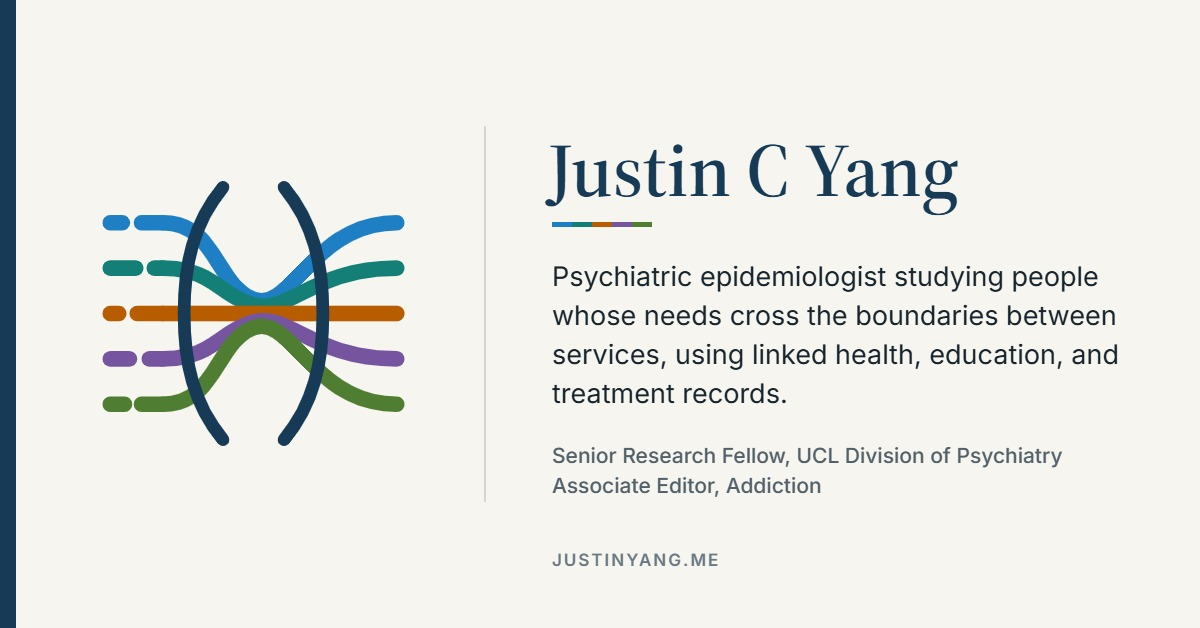
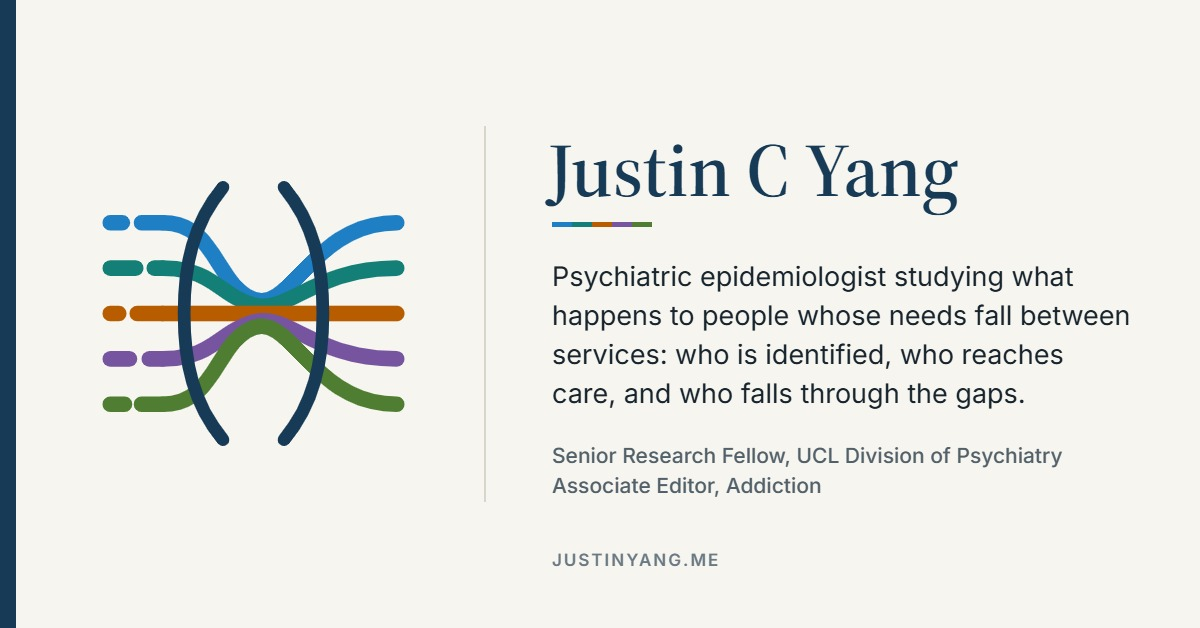
Lead with the research question rather than the data
- Homepage opens with the question (who is identified, who reaches
  treatment or support, and who falls through the gaps when needs fall
  between services); linking records is now described as how the work
  is done, not as the headline
- Theme cards and projects describe what each study asks, not the
  data it uses
- "The data behind the research" becomes a shorter "How I work"
  section, moved below Recent, without the offer to advise on whole
  studies
- Research, About, Talks, Contact, Teaching, site description, and the
  social card line follow the same framing

Changed region(s): [[0.4625, 0.4841, 0.9558, 0.6656], [0.8325, 0.4236, 0.925, 0.4538]]

diff --git a/content/about/index.html b/content/about/index.html
@@ -15,7 +15,7 @@ output:
 <p class="bio-note">
 For event organisers and editors: this biography may be reused as written.
 </p>
-<p>Dr Justin C Yang is a psychiatric epidemiologist and Senior Research Fellow in the Division of Psychiatry at University College London, and an Associate Editor of <em>Addiction</em>. Dr Yang’s research follows people whose needs cross the boundaries between services (school and health care, mental health and addiction treatment, and health and social care) using linked administrative data and NHS electronic health records.</p>
+<p>Dr Justin C Yang is a psychiatric epidemiologist and Senior Research Fellow in the Division of Psychiatry at University College London, and an Associate Editor of <em>Addiction</em>. Dr Yang’s research asks what happens to people whose needs fall between services, such as school and health care, mental health and addiction treatment, and health and social care: who is identified, who reaches treatment or support, and who falls through the gaps.</p>
 <p>Dr Yang holds a UKRI Mental Health Platform Cross-Hub Fellowship (WISDOM, 2026 to 2029), and has led an NIHR Team Science award on England’s national drug and alcohol treatment data (UNITED) and an ADR UK fellowship on the education and health of neurodivergent pupils (HOPE-SEN). Dr Yang is Deputy Lead of the North London NHS Foundation Trust research database and an Expert Member of the Health Research Authority’s Confidentiality Advisory Group, and holds a PhD in Public Health and Primary Care from the University of Cambridge and an MSPH in Health Policy from Johns Hopkins University.</p>
 </div>
 <div id="roles-and-recognition" class="section level2">

diff --git a/content/teaching/index.html b/content/teaching/index.html
@@ -225,5 +225,5 @@ MSc
 </div>
 <div id="prospective-doctoral-students" class="section level2">
 <h2>Prospective doctoral students</h2>
-<p>I welcome enquiries from prospective PhD students whose questions fit my research on school and health, mental health and addiction services, or health and social care in severe mental illness, particularly projects using linked administrative data, NHS mental health records, or national treatment data. Please <a href="../contact/">get in touch</a> with a short outline of your question, the data or methods you have in mind, and your likely funding route.</p>
+<p>I welcome enquiries from prospective PhD students whose questions fit my research on school and health, mental health and addiction services, or health and social care in severe mental illness, particularly projects about people whose needs span more than one service. Please <a href="../contact/">get in touch</a> with a short outline of your question, the data or methods you have in mind, and your likely funding route.</p>
 </div>

diff --git a/content/talks/index.html b/content/talks/index.html
@@ -8,7 +8,7 @@ output:
 
 
 
-<p>I give talks on linked administrative data, NHS mental health records, neurodivergence and education, and addiction treatment data, and I teach methods courses for researchers working in secure data environments. For speaking invitations, please <a href="../contact/">get in touch</a>; a reusable biography is on the <a href="../about/">About</a> page.</p>
+<p>I give talks on school absence and neurodivergence, access to treatment for drug and alcohol problems, severe mental illness, and the responsible research use of health and administrative records. I also teach methods courses for researchers working in secure data environments. For speaking invitations, please <a href="../contact/">get in touch</a>; a reusable biography is on the <a href="../about/">About</a> page.</p>
 <div id="invited-talks-and-presentations" class="section level2">
 <h2>Invited talks and presentations</h2>
 <div class="talk-card">

diff --git a/content/_index.md b/content/_index.md
@@ -1,13 +1,13 @@
 ---
 title: Home
-description: "Dr Justin C Yang is a psychiatric epidemiologist at UCL who studies people whose needs cross the boundaries between school, health, addiction, and social care services."
+description: "Dr Justin C Yang is a psychiatric epidemiologist at UCL who studies what happens to people whose needs fall between school, health, addiction, and social care services."
 ---
 
 <div class="home-intro">
 <img class="home-portrait" src="team/pictures/justinyang.webp" alt="Portrait of Justin C Yang" width="256" height="256" decoding="async" fetchpriority="high">
 <div class="home-intro-text">
 <h1>Justin C Yang</h1>
-<p class="home-lede">Many people's needs don't fit neatly into one service. An autistic child's story is split between school and NHS records; someone with psychosis who also uses drugs moves between mental health and addiction services, each holding part of the picture. I study what happens to people at these boundaries by linking the records each service keeps, and I work on how those records can be used for research safely and with public trust.</p>
+<p class="home-lede">I study what happens to people whose needs fall between services: who is identified, who reaches treatment or support, and who falls through the gaps, and why this differs between groups and places. An autistic child's support is split between school and the NHS; someone with psychosis who also uses drugs moves between mental health and addiction services. Each service sees only part of the picture.</p>
 <p class="home-role">I am a psychiatric epidemiologist and Senior Research Fellow in the <a href="https://www.ucl.ac.uk/psychiatry">UCL Division of Psychiatry</a>, and an Associate Editor of <a href="https://onlinelibrary.wiley.com/journal/13600443"><i>Addiction</i></a>.</p>
 </div>
 </div>
@@ -24,45 +24,41 @@ description: "Dr Justin C Yang is a psychiatric epidemiologist at UCL who studie
     <span>Co-investigator or work package lead on four awards</span>
   </div>
   <div class="academic-snapshot-item">
-    <span class="academic-snapshot-label">Research data governance</span>
-    <strong>Expert Member</strong>
-    <span>Health Research Authority Confidentiality Advisory Group</span>
-  </div>
-  <div class="academic-snapshot-item">
     <span class="academic-snapshot-label">Policy</span>
     <strong>About 35</strong>
     <span>Policy documents citing my co-authored work, including OECD and WHO reports</span>
+  </div>
+  <div class="academic-snapshot-item">
+    <span class="academic-snapshot-label">National role</span>
+    <strong>Expert Member</strong>
+    <span>Health Research Authority Confidentiality Advisory Group</span>
   </div>
 </div>
 
 ## Research
 
-My research follows people across three boundaries between services. Each is a line of work I have built over several years, through a series of studies rather than a single project. See [Research](research/) for more detail.
+I follow this question in three areas, each built over several years through a series of studies. See [Research](research/) for more detail.
 
 <div class="mindset-questions theme-cards">
   <section class="mindset-question">
     <span class="mindset-question-number">01</span>
     <h3>School and health</h3>
     <p>How schools and health services identify and support autistic and other neurodivergent children, and what follows for school attendance, exclusion, and hospital admission.</p>
-    <p class="theme-evidence"><b>Key finding:</b> recorded autism incidence among more than 7 million pupils in England differed sharply between social and ethnic groups and between areas (<a href="https://doi.org/10.1016/S2352-4642(22)00247-4"><i>Lancet Child &amp; Adolescent Health</i></a>, 2022; joint first author). A 2026 OECD report cites it.<br><b>Projects:</b> HOPE-SEN, ADR UK fellowship (2024 to 2026).</p>
+    <p class="theme-evidence"><b>Key finding:</b> recorded autism incidence among more than 7 million pupils in England differed sharply between social and ethnic groups and between areas (<a href="https://doi.org/10.1016/S2352-4642(22)00247-4"><i>Lancet Child &amp; Adolescent Health</i></a>, 2022; joint first author). A 2026 OECD report cites it.<br><b>Projects:</b> HOPE-SEN, ADR UK fellowship (2024 to 2026), on school absence, exclusion, and hospital admission among neurodivergent pupils.</p>
   </section>
   <section class="mindset-question">
     <span class="mindset-question-number">02</span>
     <h3>Mental health and addiction services</h3>
-    <p>Who reaches treatment for drug and alcohol problems, particularly people who also have a mental illness, and how England's national treatment data can be used well.</p>
-    <p class="theme-evidence"><b>Key findings:</b> national US studies of unmet need for mental health treatment and of access to opioid treatment (2019 and 2020; first author), and, in England, a study of mental health diagnoses and deprivation as predictors of access to opioid treatment (2023).<br><b>Projects:</b> UNITED, NIHR Team Science award (2026); anti-stigma course evaluation, NIHR (2026).</p>
+    <p>Who reaches treatment for drug and alcohol problems, particularly people who also have a mental illness, and what stands in the way.</p>
+    <p class="theme-evidence"><b>Key findings:</b> national US studies of unmet need for mental health treatment and of access to opioid treatment (2019 and 2020; first author), and, in England, a study of mental health diagnoses and deprivation as predictors of access to opioid treatment (2023).<br><b>Projects:</b> UNITED, NIHR Team Science award (2026), on what England's national treatment data can show about who reaches treatment; evaluation of an anti-stigma course for health and care staff, NIHR (2026).</p>
   </section>
   <section class="mindset-question">
     <span class="mindset-question-number">03</span>
     <h3>Health and social care in severe mental illness</h3>
-    <p>What NHS records show about treatment, harms, and inequalities for people with severe mental illness, and what linking health and social care records could add.</p>
-    <p class="theme-evidence"><b>Key finding:</b> antipsychotic polypharmacy was associated with endocrine and metabolic adverse drug reactions among 13,391 patients (<a href="https://doi.org/10.1017/S0033291722000952"><i>Psychological Medicine</i></a>, 2023; joint first author).<br><b>Projects:</b> WISDOM, UKRI fellowship (2026 to 2029); patient observation on psychiatric wards, NIHR (2024 to 2028); health and social care data linkage, NIHR (from 2027).</p>
+    <p>Treatment, harms, and inequalities for people with severe mental illness, in hospital and in the community, including the support recorded outside the NHS.</p>
+    <p class="theme-evidence"><b>Key finding:</b> antipsychotic polypharmacy was associated with endocrine and metabolic adverse drug reactions among 13,391 patients (<a href="https://doi.org/10.1017/S0033291722000952"><i>Psychological Medicine</i></a>, 2023; joint first author).<br><b>Projects:</b> WISDOM, UKRI fellowship (2026 to 2029), on the social and emotional drivers of severe mental illness; enhanced patient observation on psychiatric wards, NIHR (2024 to 2028); linking health and social care data, NIHR (from 2027).</p>
   </section>
 </div>
-
-## The data behind the research
-
-Linking records across services raises practical and ethical questions as well as statistical ones. Since 2019 I have helped run the [research database](https://www.northlondonmentalhealth.nhs.uk/research-database-) of what is now North London NHS Foundation Trust, first as Database Manager and now as Deputy Lead, including bringing two trusts' records together after their merger. I also sit on the Health Research Authority's Confidentiality Advisory Group, which advises on when confidential patient information can be used without consent. I can therefore advise collaborators on the whole course of a linked data study, from feasibility and approvals to analysis.
 
 ## Recent
 
@@ -73,8 +69,12 @@ Linking records across services raises practical and ethical questions as well a
   <li><span class="news-date">January 2026</span> WISDOM began: a UKRI Mental Health Platform fellowship linking the Complex Emotions, DATAMIND, and Social Health hubs.</li>
 </ul>
 
+## How I work
+
+Following people across services usually means bringing together records that each service keeps separately, in ways the public can trust. Since 2019 I have helped run the [research database](https://www.northlondonmentalhealth.nhs.uk/research-database-) of what is now North London NHS Foundation Trust, now as Deputy Lead, and I sit on the Health Research Authority's Confidentiality Advisory Group, which advises on when confidential patient information can be used without consent.
+
 ## Working together
 
 MINDSET is the name of my research group: the postdoctoral researchers whose research I direct day to day, and the doctoral students I co-supervise. See [Team](team/). I collaborate with academic groups, NHS trusts, treatment providers, and people with lived experience.
 
-I welcome conversations about research that links records across services or uses NHS mental health records or national drug and alcohol treatment data, and about doctoral supervision. [Get in touch](contact/).
+I welcome conversations about research on people whose needs span education, health, addiction, and social care services, and about doctoral supervision. [Get in touch](contact/).

diff --git a/content/research/index.md b/content/research/index.md
@@ -1,13 +1,13 @@
 ---
 title: Research
-description: "Research by Dr Justin C Yang on people whose needs cross the boundaries between school, health, addiction, and social care services, using linked records."
+description: "Research by Dr Justin C Yang on what happens to people whose needs fall between school, health, addiction, and social care services."
 ---
 
-Many people with mental health, neurodevelopmental, or substance use needs are in contact with more than one service: schools and the NHS, mental health and addiction services, health and social care. Each service records part of their experience, and the records are rarely joined up. My research links those records to understand what happens to people at the boundaries between services, and why outcomes differ between groups and places.
+Many people with mental health, neurodevelopmental, or substance use needs are in contact with more than one service: schools and the NHS, mental health and addiction services, health and social care. My research asks what happens to them at the boundaries between services: who is identified, who reaches treatment or support, who falls through the gaps, and why this differs between groups and places.
 
-Records like these reflect who reaches a service, how staff record what they see, and how datasets are linked, as well as people's needs. I therefore also work on the records themselves: what they can and cannot show, and how they can be used for research safely and with public trust.
+Each service sees only part of a person's experience, so answering these questions usually means bringing together records that services keep separately. How to do that well, and in ways the public can trust, is the subject of the last section below.
 
-My work falls into three lines, each built over several years through a series of studies. Funding details are on the [Funding](../funding/) page, and the full record is on [Publications](../publications/).
+My work falls into three areas, each built over several years through a series of studies. Funding details are on the [Funding](../funding/) page, and the full record is on [Publications](../publications/).
 
 ## School and health
 
@@ -19,25 +19,25 @@ Autistic and other neurodivergent children are identified, supported, and exclud
 
 ## Mental health and addiction services
 
-People with drug or alcohol problems often have mental health needs too, and the two are usually treated by different services. I study who reaches treatment, and the national data used to monitor it.
+People with drug or alcohol problems often have mental health needs too, and the two are usually treated by different services. I study who reaches treatment and what stands in the way.
 
 - **Access to treatment.** My doctoral research used national US data to show inequalities in unmet need for mental health treatment ([*International Journal for Equity in Health*, 2019](https://doi.org/10.1186/s12939-019-1026-y)) and in the provision of opioid agonist treatment by area, organisation, and payment ([*PLOS ONE*, 2020](https://doi.org/10.1371/journal.pone.0229787)); I was first author of both. In England, I contributed to a study of mental health diagnoses and deprivation as predictors of access to treatment for opioid use disorder ([*Substance Abuse Treatment, Prevention, and Policy*, 2023](https://doi.org/10.1186/s13011-023-00568-5)).
-- **UNITED (2026).** I am the named lead investigator of this NIHR Team Science award, which brings together researchers, the national treatment providers Change Grow Live and Turning Point, and lived experience researchers. I led its scoping review of 83 research outputs that use England's National Drug Treatment Monitoring System ([preprint](https://doi.org/10.2139/ssrn.7505399), under review) and its work on principles for using the data responsibly.
+- **UNITED (2026).** I am the named lead investigator of this NIHR Team Science award, which brings together researchers, the national treatment providers Change Grow Live and Turning Point, and lived experience researchers. It asks what England's National Drug Treatment Monitoring System can show about who reaches treatment. I led its scoping review of 83 research outputs that use these data ([preprint](https://doi.org/10.2139/ssrn.7505399), under review) and its work on principles for using them responsibly.
 - **Stigma in services (2026).** I lead the quantitative evaluation of a co-produced course for health and care staff who work with people who use drugs, funded through the NIHR School for Public Health Research.
 - I am an Associate Editor of *Addiction*.
 
 ## Health and social care in severe mental illness
 
-NHS mental health records hold years of detail about treatment and outcomes, much of it in free text, while much of the support people with severe mental illness receive is recorded in social care. I study what these records show, and what linking them could add.
+People with severe mental illness are supported in hospital, in the community, and by social care, and what happens to them in one setting shapes the others. I study treatment, harms, and inequalities in severe mental illness, including the support recorded outside the NHS.
 
 - **Medication harms.** Among 13,391 patients of a London mental health service, antipsychotic polypharmacy was associated with endocrine and metabolic adverse drug reactions recorded in routine care ([*Psychological Medicine*, 2023](https://doi.org/10.1017/S0033291722000952)). I was joint first author and led the analysis and writing.
 - **WISDOM (2026 to 2029).** My UKRI Mental Health Platform Cross-Hub Fellowship brings together the Complex Emotions, DATAMIND, and Social Health hubs to study the social, emotional, environmental, and institutional drivers of severe and enduring mental illness.
 - **Observation on psychiatric wards (2024 to 2028).** In this £1.5 million NIHR study led by Professor Alexandra Pitman, I lead the electronic health record work package, which uses natural language processing to identify enhanced patient observation in clinical notes.
 - **Linking health and social care data (from 2027).** I co-lead a work package on the acceptability and governance of linking health and social care records in a new NIHR School for Social Care Research study led by Professor Peter Bath.
 
-## The data behind the research
+## How I work
 
-Research that links sensitive records depends on how those records are governed, linked, accessed, and documented. I work on this directly.
+Following people across services depends on records that are governed, linked, accessed, and documented well, and used in ways the public can trust. I work on this directly.
 
 - **NHS research database.** Since 2019 I have helped run the research database of what is now North London NHS Foundation Trust, first as Database Manager and now as Deputy Lead. After the merger of Camden and Islington and Barnet, Enfield and Haringey mental health trusts, I led the integration of their records into a single research database, including the ethics and Confidentiality Advisory Group approvals and new access arrangements. I have advised on 31 research projects using the database and contribute to harmonisation with the equivalent databases at South London and Maudsley, Oxford Health, and Cambridgeshire and Peterborough.
 - **National data governance.** I am an Expert Member of the Health Research Authority's Confidentiality Advisory Group, which advises on when confidential patient information can be used without consent. I am also a public member of the Eastern England Secure Data Environment's Data Access Committee and a member of an ADR UK Task and Finish Group on researchers' access to data.

diff --git a/content/contact/index.md b/content/contact/index.md
@@ -3,7 +3,7 @@ title: Contact
 description: "Contact Dr Justin C Yang about research collaboration, doctoral supervision, speaking invitations, or advisory work."
 ---
 
-I welcome enquiries about **research collaboration**, particularly projects that link records across services or use NHS mental health records or national drug and alcohol treatment data; **doctoral supervision**; **speaking and methods training**; and **advice on research data access and governance**.
+I welcome enquiries about **research collaboration**, particularly on people whose needs span education, health, addiction, and social care services; **doctoral supervision**; **speaking and methods training**; and **advice on research data access and governance**.
 
 Please use the form below. Prospective PhD students should include a short outline of their question, the data or methods they have in mind, and their likely funding route.
 
